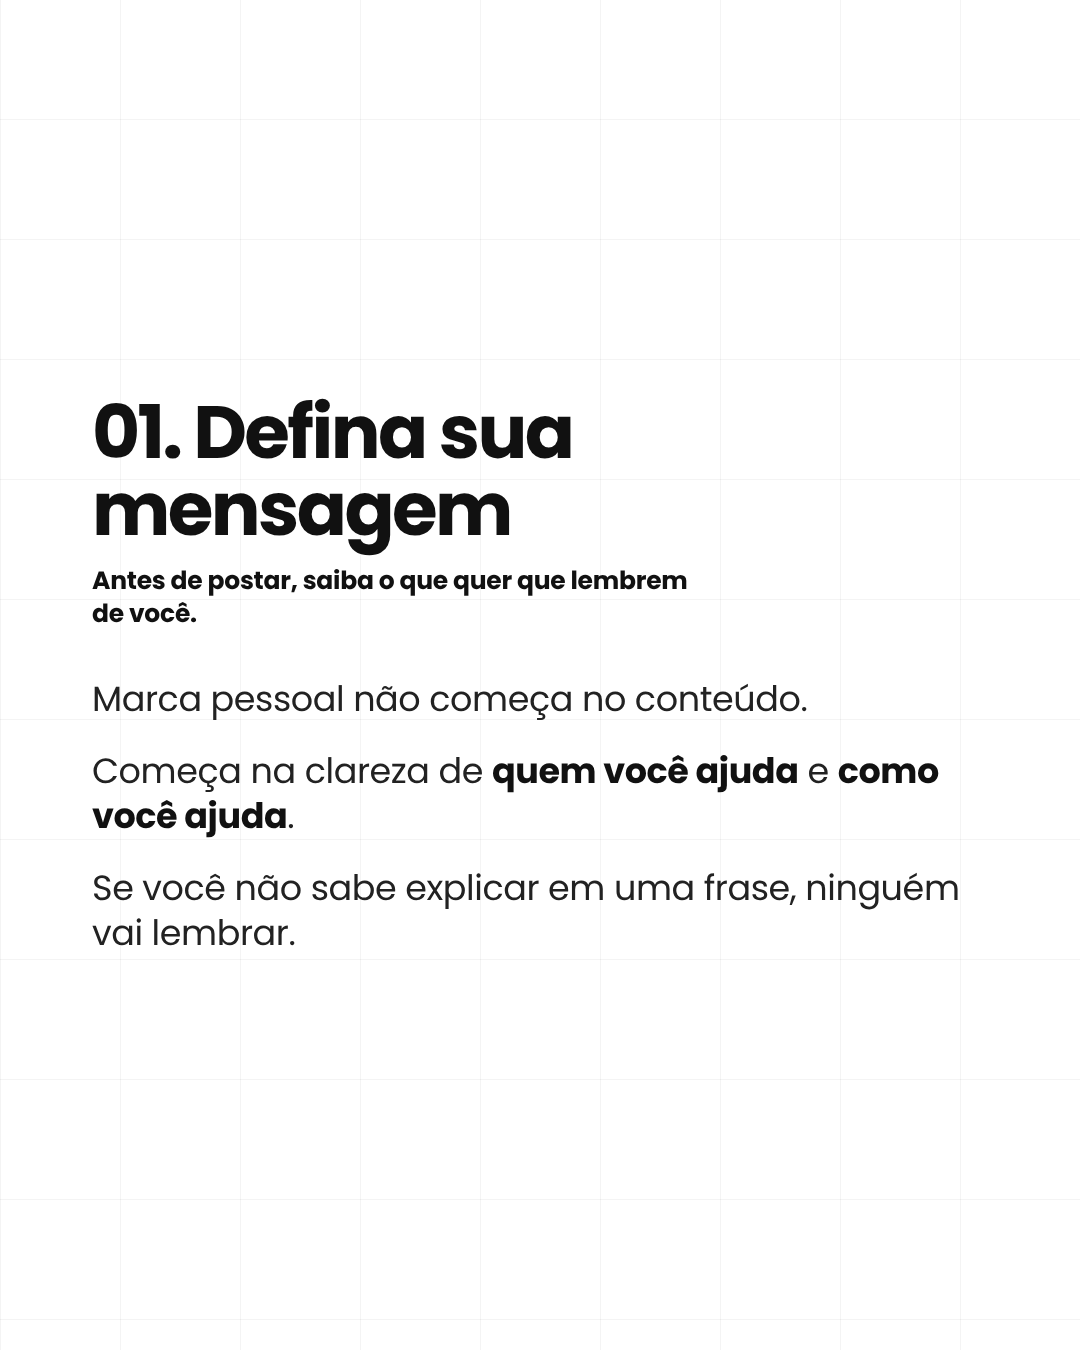
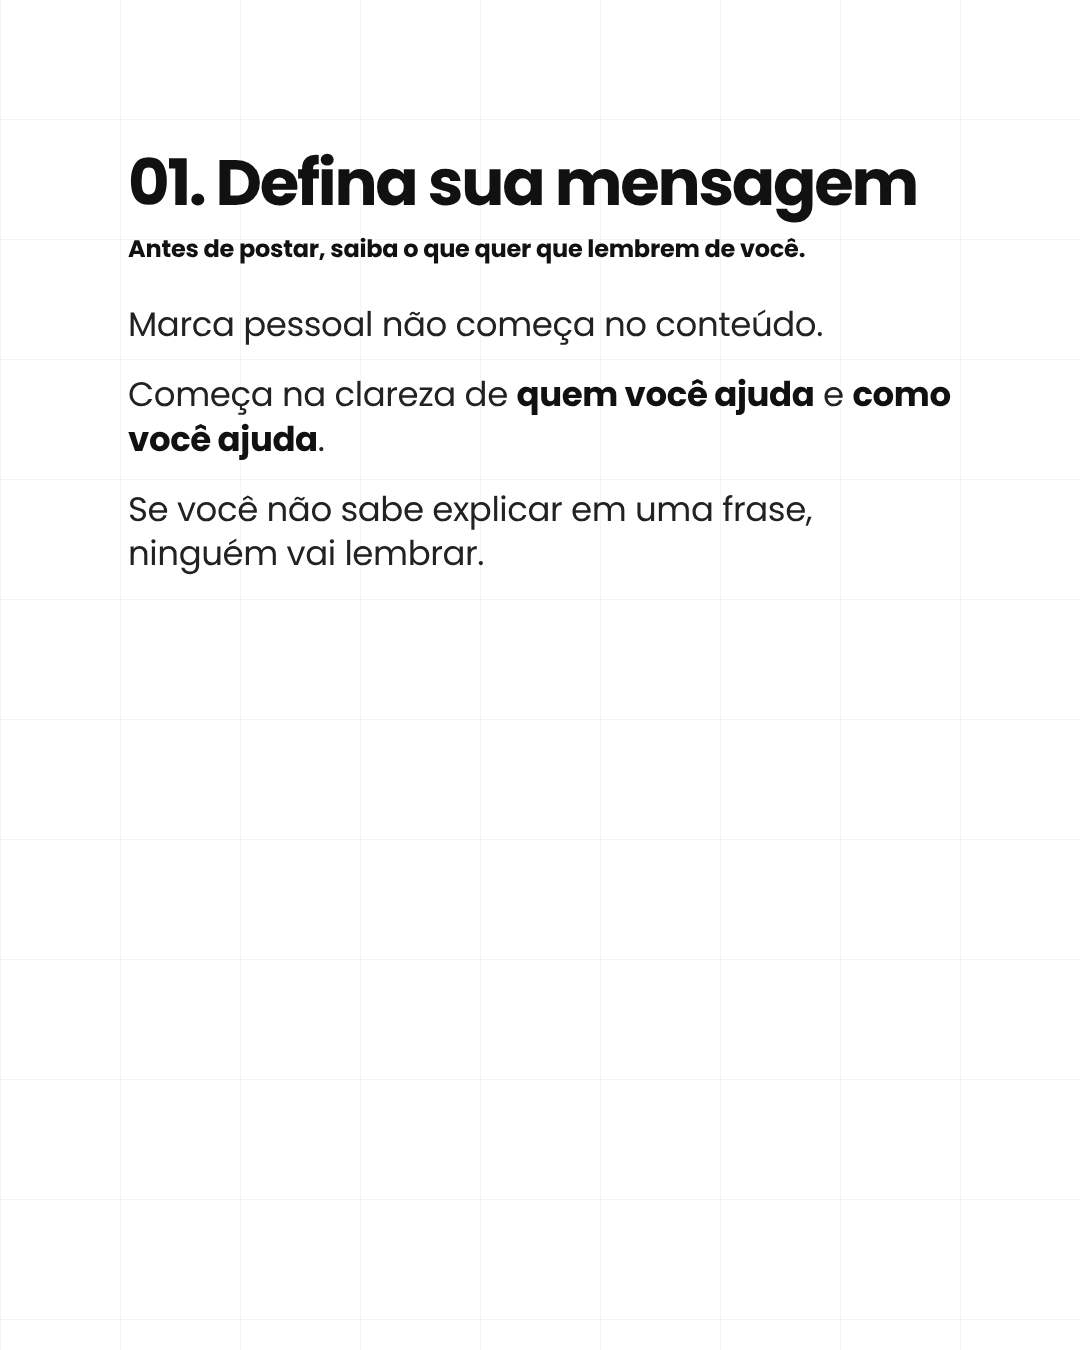
Todas as capas refeitas com respiro (120px laterais / 150px topo); máscara escura só nas capas P&B; capas 01 e 02 no motor
Claude-Session: https://claude.ai/code/session_01CR2zLXebwu2nvAjBiSDjK9

diff --git a/carrossel/capa-motor.html b/carrossel/capa-motor.html
@@ -26,7 +26,7 @@ const LAYOUTS = {
     {font:"400 300px Anton", fit:920, upper:1} ]},
   padrao:    { align:"center", lines:[
     {font:"500 24px Poppins", ls:".42em", upper:1, gap:30},
-    {font:"400 230px Anton", fit:600, upper:1, gap:70},
+    {font:"400 230px Anton", fit:500, upper:1, gap:62},
     {font:"italic 500 42px Poppins", pill:1},
     {font:"400 300px Anton", fit:920, upper:1} ]},
   "dois-pesos": { align:"left", lines:[
@@ -38,7 +38,7 @@ const LAYOUTS = {
     {font:"italic 400 200px 'Instrument Serif'", fit:920, gap:36},
     {font:"900 200px Archivo", stretch:"62%", fit:920, upper:1} ]}
 };
-const M = 80; // margem de segurança
+let M = 120, MT = 150; // margens: laterais e topo (respiro)
 
 function inkW(e){const r=document.createRange();r.selectNodeContents(e);return r.getBoundingClientRect().width}
 function profile(text, font, stretch, ls, left){
@@ -56,6 +56,7 @@ function profile(text, font, stretch, ls, left){
 }
 
 window.loadCapa = async function(spec){
+  M = spec.margem ?? 120; MT = spec.margem_topo ?? 150; const larg = 1080 - 2*M;
   const L = LAYOUTS[spec.layout||"riscado"]; if(!L) return {avisos:["layout desconhecido: "+spec.layout]};
   const avisos=[];
   document.getElementById("foto").src = spec.foto;
@@ -77,7 +78,7 @@ window.loadCapa = async function(spec){
   await Promise.all(L.lines.map(c=>document.fonts.load(c.font).catch(()=>0)));
   await document.fonts.ready; await new Promise(r=>setTimeout(r,250));
   // ajusta larguras
-  els.forEach(({d,cfg})=>{ if(cfg.fit){ const fs=parseFloat(getComputedStyle(d).fontSize); d.style.fontSize=fs*cfg.fit/inkW(d)+"px" } });
+  els.forEach(({d,cfg})=>{ if(cfg.fit){ const fs=parseFloat(getComputedStyle(d).fontSize); d.style.fontSize=fs*(cfg.fit*larg/920*(spec.escala??1))/inkW(d)+"px" } });
   // alinhamento horizontal primeiro (o encaixe vertical depende da posição x)
   els.forEach(({d})=>{ const w=d.getBoundingClientRect().width; d.style.left = align==="center" ? (540-w/2)+"px" : M+"px" });
   // empilha de baixo para cima: cada linha desce até ficar a `gap` px da linha de baixo no ponto mais próximo (acentos incluídos)
@@ -124,7 +125,7 @@ window.loadCapa = async function(spec){
     sv.appendChild(rc.curve([[r.left-14,y+10],[r.left+r.width*.5,y-6],[r.right+18,y+4]],{stroke:spec.cor_risco||"#fff",strokeWidth:9,roughness:1.4,seed:4}));
     sv.appendChild(rc.curve([[r.left-6,y+26],[r.left+r.width*.55,y+10],[r.right+10,y+20]],{stroke:spec.cor_risco||"#fff",strokeWidth:5,roughness:1.6,seed:9})); });
   // FADE: degradê preto do topo até um pouco abaixo do título (também escurece o recorte da pessoa)
-  if(spec.fade!==false){
+  if(spec.fade ?? (spec.pb===true)){
     const tops=pos.filter(Boolean).map(p=>p.top), bots=pos.filter(Boolean).map(p=>p.bottom);
     const fim=Math.min(1350, Math.max(...bots)+(spec.fade_extra??300)), meio=Math.max(...bots)-40, forca=spec.fade_forca??.66;
     const stops=[[0,forca],[Math.max(0,meio)/1350,forca*.72],[fim/1350,0]];
@@ -142,7 +143,7 @@ window.loadCapa = async function(spec){
   // auditoria de margens
   els.forEach(({d,t})=>{ const r=d.getBoundingClientRect();
     if(r.left<M-2||r.right>1080-M+2) avisos.push(`capa: "${t}" fora da margem lateral`);
-    if(r.top<M-2) avisos.push(`capa: "${t}" encosta no topo (abaixe "base")`); });
+    if(r.top<MT-2) avisos.push(`capa: "${t}" invade a margem do topo (aumente "base")`); });
   return {avisos};
 };
 </script></body></html>

diff --git a/.claude/skills/carrossel/SKILL.md b/.claude/skills/carrossel/SKILL.md
@@ -24,9 +24,9 @@ Objetivo: máxima qualidade com o mínimo de tokens. **Não leia** `index.html`,
 ## Regras de estilo (aprovadas pelo usuário)
 - Público AAA, minimalista e elegante. Fundo branco na maioria; **1–2 slides** com `"tema":"escuro"` (verde Trives escuro, flat com granulado). Sem neon, sem logo, sem nome no topo, sem rodapé.
 - Fontes: Poppins (texto), Anton/Archivo (capa), Caveat (letra de mão). Margens 128 px laterais / 150 px vertical (automático).
-- Capa: foto colorida, **título grande**, pessoa recortada na frente da última linha, margem 80 px.
+- Capa: foto P&B com pretos profundos (preferência atual), **título grande**, pessoa recortada na frente da última linha. **Respiro:** margem 120 px nas laterais e 150 px no topo (`margem`, `margem_topo`); o título se ajusta à largura útil.
   Linhas encaixam sozinhas pela forma real das letras (acentos incluídos, sem encostar); se um acento bater, a linha de cima desliza até 90 px p/ a direita (`"encaixe": false` desliga).
-  Legibilidade: máscara preta em toda a foto (`mascara`, padrão 0.18) + fade preto do topo até abaixo do título (`fade_forca` 0.66, `fade_extra` 300 px; `"fade": false` desliga). O recorte recebe o mesmo escurecimento.
+  Legibilidade (**só em capas P&B**, com `"pb": true`): máscara preta em toda a foto (`mascara`, padrão 0.18) + fade preto do topo até abaixo do título (`fade_forca` 0.66, `fade_extra` 300 px; `"fade": false` desliga). O recorte recebe o mesmo escurecimento. Capas coloridas: só o sombreado leve do topo (`escurecer`, padrão 0.2). `escala` (padrão 1) reduz/aumenta o título inteiro.
   `espaco` (opcional, padrão 1) multiplica o espaço entre as linhas do título: 0.5 = mais junto, 1.5 = mais solto.
   Layouts: `riscado` (3 linhas: pequena · palavra riscada · gigante) · `padrao` (4: pequena espaçada · média · selo · gigante) · `dois-pesos` (3: pequena · fina · pesada) · `serifa` (3: pequena · itálico serifado · condensada).
 - Slide de conteúdo = título + subtítulo (1 linha) + 1 frase curta com `[[círculo]]`/`{{sublinhado}}` + desenho + **Na prática** (`exemplo`, 1–2 linhas, situação real) + **gancho** (1 linha, sem ponto final, abre curiosidade p/ o próximo).
